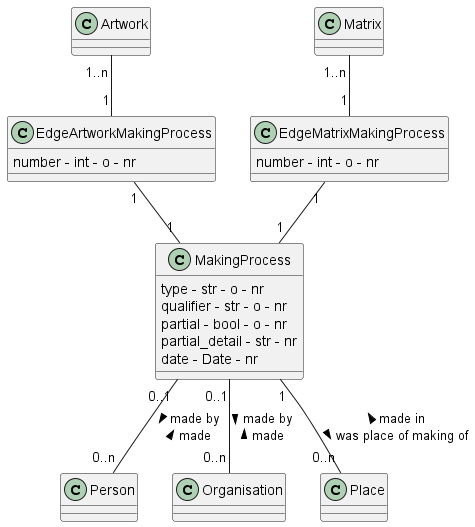
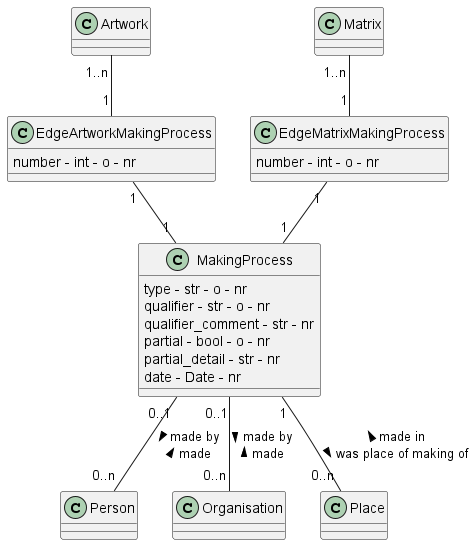
classes Image, Copy, Photo, Campaign added
some other classes updated

diff --git a/documentation/Iconobase - Classes.md b/documentation/Iconobase - Classes.md
@@ -729,9 +729,12 @@ These three Edges are ony used if the Artwork is in turn the iconography for oth
 There might be an alternative set of relationships for EdgeArtworkIconography:
 reconstruction / reconstruction of 
 
-**Edge between Artwork and Image:**
+**Edge between Artwork and Image (EdgeArtworkImage):**
 
-This Edge currently only contains the number of the Images, making sure that the Images are listed in a sensible order (e.g., starting with an overview, and then perhaps from bottom left to top right in case of a big fresco, or so). Since every Image is connected to one and only one Artwork, one could likewise keep the Edge empty and store this information as attribute of Image - I suggest here this solution to be consistent with other Edges. 
+This Edge currently contains two elements:
+-  number: number oof the Images, making sure that the Images are listed in a sensible order (e.g., starting with an overview, and then perhaps from bottom left to top right in case of a big fresco, or so). 
+- preferred: true if this is the Image the photo connected with should be shown as result of a search for the Artwork (normally an overview photo) 
+Since every Image is connected to one and only one Artwork, one could likewise keep the Edge empty and store this information as attribute of Image - I suggest here this solution to be consistent with other Edges. 
 
 **Additional criteria for creating links:**
 
@@ -751,7 +754,7 @@ The validation is here rather complex because it has to check combinations of li
 **Additional criteria for validation for publishing record:**
 
 - An Artwork record can only be published with it has at least one MakingProcess connected to the original making of the Artwork (i.e., excluding types such as "destroyed" or 'reconstructed') that is linked to a place and at least one MakingProcess that has a Date field (it could be the same MakingProcess). 
-- An Artwork record can ony be published if it has at least one location (Place, Organisation (= Collection), Manuscript or Book), or if one of the related Copy records has a link to a Collection (the latter constellation would be used for printed material that is not part of a book). There is no need for a lcoation that has the attribute current as true, in many cases one only has former locations. 
+- An Artwork record can ony be published if it has at least one location (Place, Organisation (= Collection) or Manuscript, not Book), or if one of the related Copy records has a link to a Collection (the latter constellation would be used for printed material that is not part of a book). There is no need for a lcoation that has the attribute current as true, in many cases one only has former locations. 
 
 
 
@@ -765,7 +768,7 @@ When an Artwork record is created, one or more MakingProcess records are created
 **Attributes:**
 
 - type: this describe the type of process, e.g. designing, painting, restoring, destroying. This is selected automatically depending on the Medium of the artwork, or selected from list (the list contains only those types that are relevant for the Medium of this Artwork)
-- qualifier: indicating a securely the process described here took place. This is selected from a list, the default would be 'no comments', other entries might be 'attributed', 'follower of', or 'former attribution'
+- qualifier and qualifier_comments: indicating a securely the process described here took place. This is selected from a list, the default would be 'no comments', other entries might be 'attributed', 'follower of', or 'former attribution'. This can be described in greater detail in qualifier_comments
 - partial: indicating if this working process touched all the Artwork or only a part of it (for situations of collaboration, e.g. Virgin by Rubens surrounded with flowers by Breughel)
 - partial_detail: this field is only relevant when partial is True - one could indicate here which part is connected to this MakingProcess, e.g. "flowers"
 
@@ -786,4 +789,135 @@ This works like the EdgeArtworkMakingProcess, see under Artwork
 **Additional criteria for validation for saving record:**
 
 - A MakingProcess record that has neither a link to a Person, Organisation, or Place nor a date cannot be saved. Such records will be created regularly when all MakingProcesses relevant for the Medium of the Artwork are created, but not all of them are filled in - what is often the case (e.g., if one only knows the designer of a woodcut, not the blockcutter). In this case, the 'empty' records will be abandonned without an error message.  
+
+## Image
+
+The Image record describe what can be seen on a photo of the Artwork record, hence primarily the Iconography. 
+
+![Create](./class_diagrams/Image.png)
+
+**Attributes:**
+detail: indicates if the Image is a detail of the complete artwork or shows it in its entirety. 
+position: indicates the part of the artwork shown, e.g. "top left" or "NW corner, upper row". A controlled vocabulary probably does not make sense. Normally, this would be empty if detail is 'false', but perhaps not always, I am not totally sure. 
+
+**Edge between Artwork and Image (EdgeArtworkImage):**
+see above
+
+
+**Edge between Image and Image:**
+This Edge is probably used for two different scenarios. 
+- Several Artworks for together one 'Iconographic Unit' (e.g. an altarpiece showing the Asssumption of the Virgin, and the smaller painting above Christ welcoming Her to heaven). Since it is not foreseen (and this would probably cause chaos) to link one Image to several Artworks - each would have an Image, and they would be linked with such a function. If the Image appears in a search, related images will shown together (2 questions: should one also have a bool attribute for Image indicating that the Image shows only a part of the whole 'iconographic unit'? Should one solve this (pretty rare, but extant) problem otherwise?)
+ - If Images are typological or similar relationships, this will be expressed in a rather complicated way through the Iconography records (or rather, through specific Options of the Iconography). The question is if one should additionally link them diretly through this Edge (manually? or should this be inserted automatically?)
+  
+  **Edge between Image and Copy (EdgeImageCopy):**
+  
+  This works like the EdgeArtworkImage, but numbering is not necessary since there is no sensible way in which the copies should be ordered. 
+
+  **Edge between Image and Iconography (EdgeImageIconography):**
+- preferred: This means that this is the Image that should appear in a search for the connected iconography. For every combination of Artwork and Iconography, only one connection can be preferred. 
+- number: The number in which the iconographie are listed in the Image record (makes only sense in that direction)
+- qualifier and qualifier_comments: Indicates how certain the connection is. This would be selected from a list, with the default 'no comments', and other options e.g. 'according to source texts', 'tentative'. If needed, this may be explained in qualifier_comments.
+- options: A list of the IDs of all the Options of the selected Iconography that are pertinent for the Image
+
+**Edge between Image and Cycle (EdgeImageCycle):**
+This Edge connects the Image to a Cycle, i.e., a series of Images that are made to function as a unity and that have a common topic (simple example, Stations of the Cross in a certain church). I have not fully worked out what to do with the Cycles, but I assume that the only information needed on the Edge is a sequence number (so that the Images within a CYcle could be ordered correctly and, where it is indicated, a number for display (would be used if the Images bear these numbers))
+
+**Edge between Image and Inscription:**
+I am not yet sure what to do with inscriptions, but it is probably best not to repeat inscription records and create a new one for each Image. 
+
+
+**Additional criteria for creating links:**
+Every Image may only have one EdgeImageCopy that is 'preferred'. 
+Every Iconography may only be connected to one Image of an Artwork with EdgeImageIconography that is 'preferred'. 
+In either case, this would be ensured automatically: the first Edge is preferred True, all following Edges are preferred False, and if one of them is manually set to preferred True, all others are set to preferred False. 
+
+**Additional criteria for validation for saving record:**
+
+none
+
+**Additional criteria for validation for publishing record:**
+
+The Image needs to be connected to at least one Copy that is in turn connected to at least on Photo record. 
+
+## Copy
+
+The Copy record is needed for Artworks that are 'multiples', of which several copies exist (e.g., woodcuts). In this case, the link to the whereabouts of the Artwork is not given in the Artwork record but here. In contrast to the four Edges that can be used to connect Artworks to their whereabouts, here only one type is needed, EdgeCopyCollection. 
+
+Originally, I left out this node in all other cases and connected the Image node directly to the Photo node. However, it may be best to have the same structure in all cases and so to include a Copy node without any connection. 
+
+![Create](./class_diagrams/Copy.png)
+
+**Edge between Image and Copy (EdgeImageCopy):**
+
+see above
+
+**Edge between Copy and Photo (EdgeImagecopy):**
+works like EdgeImagecopy
+
+**Edge between Copy and Collection (EdgeCopyCollection):**
+works like EdgeArtworkCollection
+
+
+**Additional criteria for creating links:**
+
+Links to Organisations (= Collections) are only possible if the medium of the Artwork connected to this Copy record fits with a multiple (e.g., 'woodcut' but not 'fresco'). In this case, the Image record cannot have links to Place or Organisation records. 
+
+**Additional criteria for validation for saving record:**
+
+There must not be more than one Edge to a Collection with current as True. 
+
+**Additional criteria for validation for publishing record:**
+
+The record must be connected to a Photo record. 
+As stated under Artwork Record - an Artwork Record can only be published if either it or a connected Copy record is connected to a Collection, a Place, or a Manuscript. 
+
+## Photo
+
+The Photo records give information on the actual photograph shown in the database. As given here, it is relatively simple and rather geared towards born-digital images. Should Iconobase to be used for digital collections of historical photographs, there might be more informatioin necessary (material of negative, technique of printing etc.) Since I have no clue about historical photography, I cannot suggest such a structure. 
+There is a principal question if all photos should be stored locally, or if for photos on library and museum websites only links should be stored (the IIIF standard allows for links to specific parts of an image). I would prefer the first solution. Another possibility for book illustrations would be to save the whole pages, and to use IIIF or a similar concept to display only details in the records. 
+
+![Create](./class_diagrams/Photo.png)
+
+**Attributes:**
+
+- filename: the name of the file (if needed with path) of the actual photograph
+- uri: in case of photographs taken from websites, the uri of the website (for two reasons: in case of book illustrations, the photo file would only show the cropped image, and this would show the full page - in case of museum websites, there might be more metadata on the website.)
+- max_download_size: can be zero, if no download permitted
+- creative_commons_statement: one of the standardised conditions (normally CC0 - I reckon that modern copyright law does not permit more restrictive statements in most cases)
+- creditline: public information about provider of image
+- rights_internal: information about image rights for internal use only (e.g., contact details of photographer)
+- date: date of the photo campaign (if one wants to indicate it). If there is a date for a linked Campaign it may not be necessary to give a date here (unless the campaign went on for many years, and one wants to be more specific)
+
+**Edge to Person/Edge to Campaign:**
+If a Person is linked to a Campaign, it would be probably not needed to indicate the Person also here (or this could be done automatically)
+
+
+**Additional criteria for creating links:**
+none
+
+**Additional criteria for validation for saving record:**
+none
+
+**Additional criteria for validation for publishing record:**
+
+
+
+## Campaign 
+
+The Campaign records join together photos made for a particular project (or photos kept in a particular collection). There might be use-cases for a rather elaborate record, but here I suggest keeping it simple. 
+
+![Create](./class_diagrams/Campaign.png)
+
+**Additional criteria for creating links:**
+
+Links to a Person can only be created if the Person has the type "Photographer"
+Links to an Organisation can only be created if the Organisation has the type "Collection"
+
+**Additional criteria for validation for saving record:**
+none (it may be that a campaign is linked to several persons or organisations. )
+
+**Additional criteria for validation for publishing record:**
+
+A campaign record can only be published if there are Photo records connected to it. 
+
 
